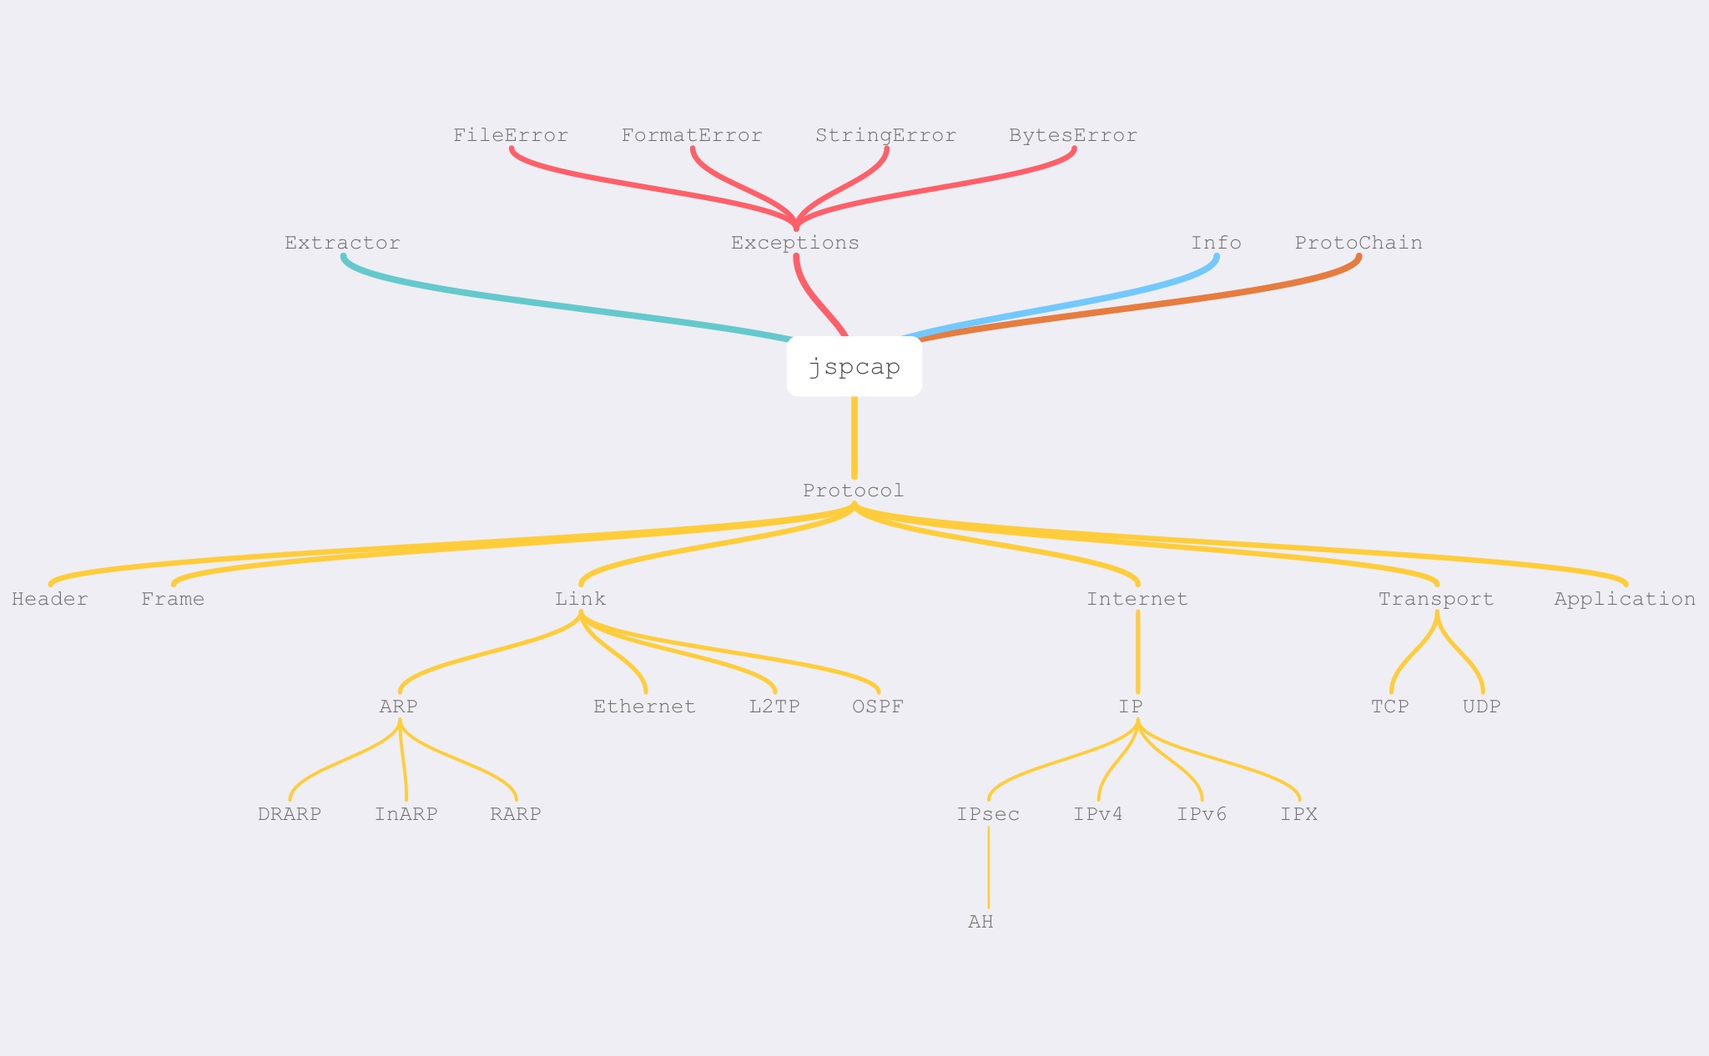
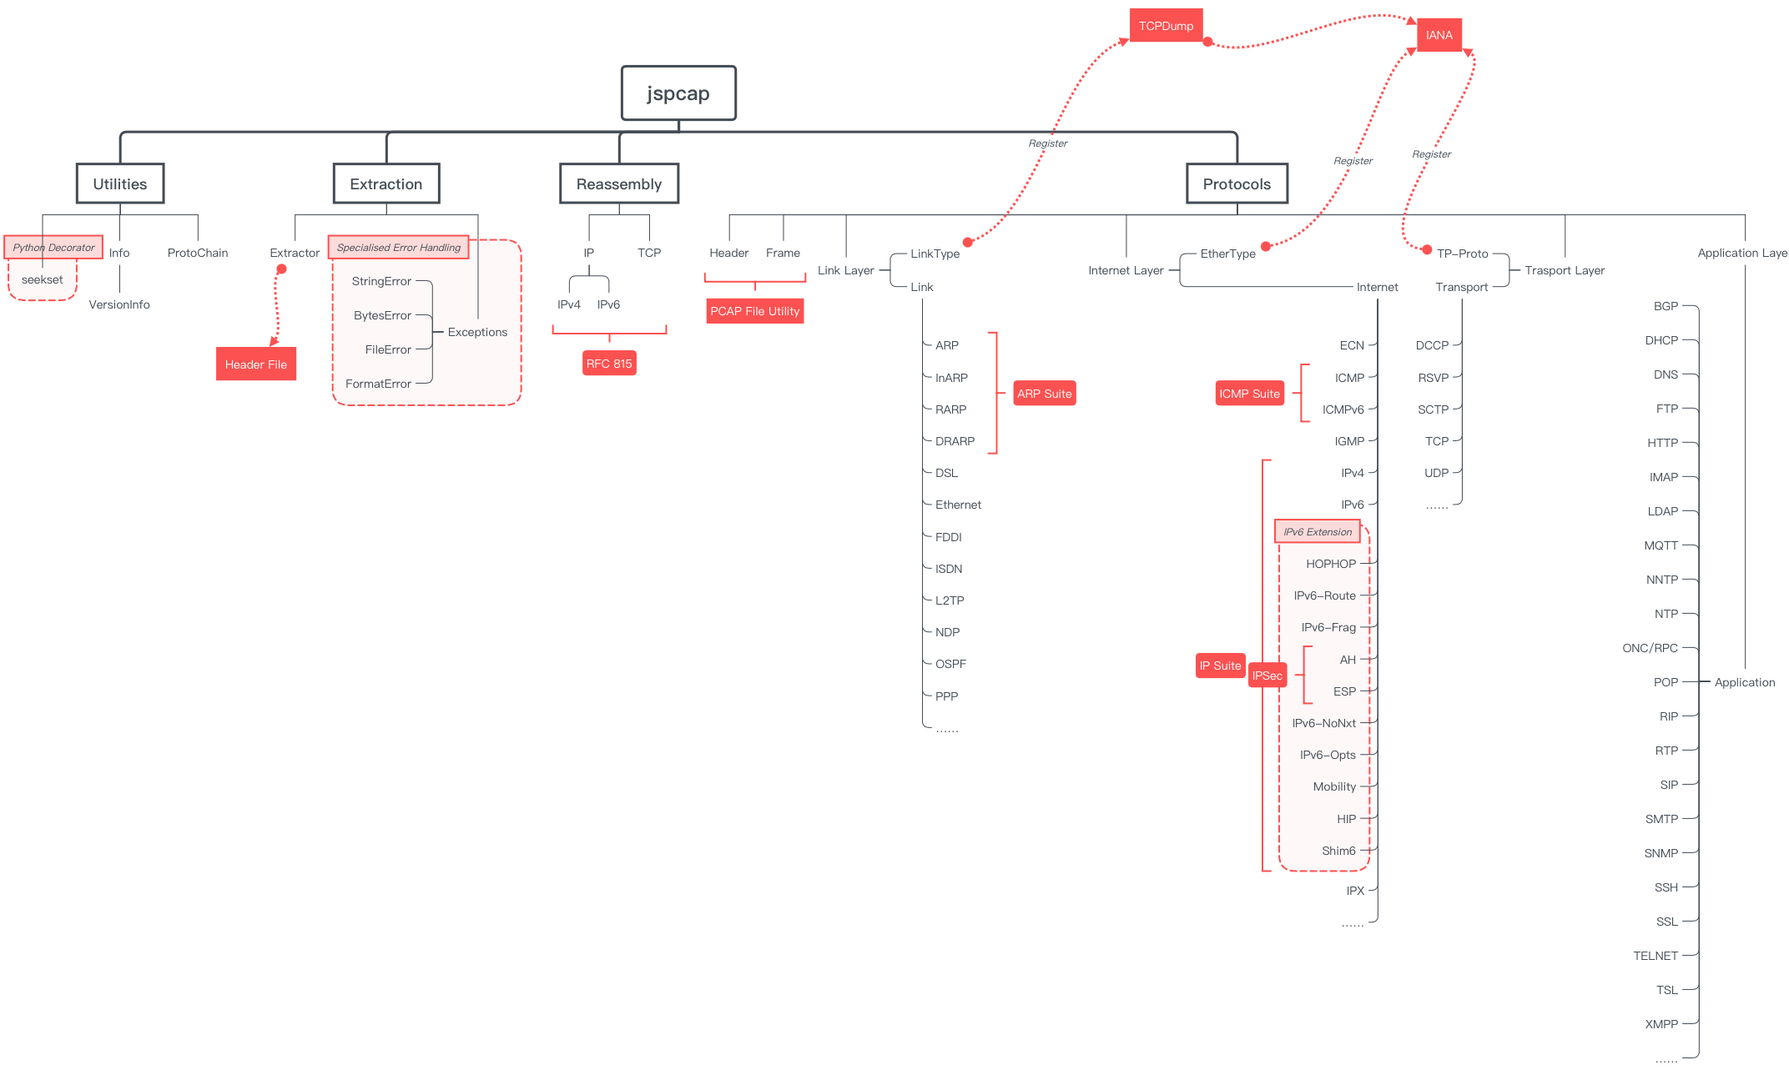
Fxied minor bugs
- add wrapper to `seekset` in `utilities`
 - change `jspcap` mind graph
 - update documentation

diff --git a/TreeViewer/src/jspcap/protocols/utilities.py b/TreeViewer/src/jspcap/protocols/utilities.py
@@ -3,6 +3,7 @@
 
 
 import copy
+import functools
 import numbers
 import os
 
@@ -16,6 +17,7 @@ __all__ = ['seekset', 'Info', 'ProtoChain']
 
 def seekset(func):
     """Rean file from start then set back to original."""
+    @functools.wraps(func)
     def seekcur(self, *args, **kw):
         seek_cur = self._file.tell()
         self._file.seek(os.SEEK_SET)

diff --git a/TreeViewer/Documentation.md b/TreeViewer/Documentation.md
@@ -109,7 +109,7 @@
 
 ##### 安装方法
 
- > &emsp; &emsp; 以下内容属于附加信息，助教小姐姐在检查的时候可以直接略过喔 (￣▽￣)
+ > &emsp; &emsp; 以下内容属于附加信息，助教小哥哥在检查的时候可以直接略过喔 (￣▽￣)
 
  1. 使用 `pip` 安装
 
@@ -392,11 +392,13 @@ optional arguments:
 
  > 此部分功能在 `jspcap/` 中实现。
 
-&emsp; &emsp; 独立开发库 `jspcap` 是本项目的核心之一，为解析 PCAP 文件的依赖库。其并未使用任何第三方库，也并未参照主流解包工具，如 `Scapy`、`dkpt` 和 `pyshark` 等。
+&emsp; &emsp; &emsp; &emsp; 独立开发库 `jspcap` 是本项目的核心之一，为解析 PCAP 文件的依赖库。其并未使用任何第三方库，也并未参照主流解包工具，如 `Scapy`、`dkpt` 和 `pyshark` 等。
 
-&emsp; &emsp; `jspcap` 采取了**流式读取**的策略，即逐段读入文件，减少对内存空间的占用，同时从某种程度上提高了解析效率。在 `jspcap` 库中，各文件主要可视为四个部分：
+&emsp; &emsp; `jspcap` 采取了**流式读取**的策略，即逐段读入文件，减少对内存空间的占用，同时从某种程度上提高了解析效率。在 `jspcap` 库中，各文件主要可视为如下五个部分：
 
- - 头文件，即 `Extractor` —— 综合文件读写与协议解析，协调网络各层级的信息读取等
+ - 解析算法，即 `Extraction` —— 综合文件读写与协议解析，协调网络各层级的信息读取等（这一部分在本项目并未使用）
+
+ - 重组算法，即 `Reassembly` —— 基于 [`RFC 815`](https://tools.ietf.org/html/rfc815) 中所描述的算法，实现对 TCP 应用层报文的重组，以及 IP 包的分片重组
 
  - 根协议，即 `Protocol` —— 抽象协议，包含协议类应有的常用函数和属性，并指定抽象方法等
 
@@ -408,17 +410,282 @@ optional arguments:
 
 ![](doc/jspcap.jpg)
 
-##### 头文件
+##### 解析算法
 
-&emsp; &emsp; 头文件，特指在 `extractor.py` 中实现的 `Extractor` 类。其负责处理文件名称的补全 —— 如输入文件名缺省后缀 `.pcap`，则需添加；如未指定输出类型，则通过输出文件名指明类型，若否则返回错误提示；如未指定输出文件名称，则默认为 `out`（见类方法 `make_name`）—— 以及根据上层协议中指定的协议类型，引入下层协议解析文件，并返回解析结果；最终，记录必要信息，便于 UI 中交互调用，及后续应用层协议拼接操作。
+&emsp; &emsp; 本部分采取了**流式读取**的策略，即逐段读入文件，减少对内存空间的占用，同时从某种程度上提高了解析效率。在实现上，以 PCAP 文件中的 `Frame` 为单位，通过在各层协议间传递 `io.BytesIO` 的形式进行流式读取。
 
-&emsp; &emsp; 此外，头文件中的 `Extractor` 类支持自动解析，或迭代解析。以 `jspcapy` 中的使用为例， `verbose` 模式下为迭代解析，从而可获取每一数据帧的信息；而普通模式则为自动解析，直接完成解析过程，并输出文件。
+&emsp; &emsp; 头文件，特指在 `jspcap/extractor.py` 中实现的 `Extractor` 类。其负责处理文件名称的补全 —— 如输入文件名缺省后缀 `.pcap`，则需添加；如未指定输出类型，则通过输出文件名指明类型，若否则返回 `FormatError` 错误提示；如未指定输出文件名称，则默认为 `out`（见类方法 `make_name`）—— 以及根据 PCAP 文件的 `Global Header` 中指定的链路层协议类型，调取对 `Frame` 的解析操作，并返回解析结果；最终，记录必要信息，便于在如 UI 中交互调用，及后续协议拼接重组操作。
+
+&emsp; &emsp; 此外，`Extractor` 类支持自动解析，或迭代解析两种模式。以基于`jspcap` 实现的命令行工具 [`jspcapy`](https://github.com/JarryShaw/jspcap/tree/master/jspcapy) 的使用为例， `verbose` 模式下为迭代解析，从而可获取每一数据帧的信息；而自动模式则为自动解析，直接完成解析过程，并输出文件。
+
+##### 重组算法
+
+&emsp; &emsp; 本部分参考了 [`RFC 791`](https://tools.ietf.org/html/rfc791) 和 [`RFC 815`](https://tools.ietf.org/html/rfc815) 中描述的两种算法。前者详细描述了 IP 包分片及重组的算法实现，其中使用到了 `RCVBT`，即“已接收比特哈希表”来维护接收顺序；而后者则针对上述 `RCVBT` 进行了优化，提出了一种替代算法。
+
+&emsp; &emsp; 为了便于算法的实现和使用，此处首先在 `jspcap/reassembly/reassembly.py` 中声明了一个名为 `Reassembly` 的抽象基类（Abstract Base Class），其效果等同于根协议。其中指定了一些抽象属性，如 `name`、`count` 和 `datagram` 等；一些抽象函数，如 `reassembly` 和 `submit`，分别用于重组过程和重组完成后提取结果；以及一些工具函数。
+
+&emsp; &emsp; 需要指出的是，同解析算法中的 `Extractor` 一样，此处也提供两种模式，可通过 `run` 方法完成多个数据包的重组；或通过直接调用，即 `__call__` 方法，逐次输入进行重组。
+
+###### IP 分片重组
+
+&emsp; &emsp; 由于操作内存占用较小，故 IP 包的分片重组直接采用了 [`RFC 791`](https://tools.ietf.org/html/rfc791) 的原始算法。其算法伪代码表示如下：
+
+```
+Notation:
+    FO    - Fragment Offset
+    IHL   - Internet Header Length
+    MF    - More Fragments flag
+    TTL   - Time To Live
+    NFB   - Number of Fragment Blocks
+    TL    - Total Length
+    TDL   - Total Data Length
+    BUFID - Buffer Identifier
+    RCVBT - Fragment Received Bit Table
+    TLB   - Timer Lower Bound
+
+Procedure:
+    DO {
+        BUFID <- source|destination|protocol|identification;
+
+        IF (FO = 0 AND MF = 0) {
+            IF (buffer with BUFID is allocated) {
+                flush all reassembly for this BUFID;
+                Submit datagram to next step;
+                DONE.
+            }
+        }
+
+        IF (no buffer with BUFID is allocated) {
+            allocate reassembly resources with BUFID;
+            TIMER <- TLB;
+            TDL <- 0;
+            put data from fragment into data buffer with BUFID
+                [from octet FO*8 to octet (TL-(IHL*4))+FO*8];
+            set RCVBT bits [from FO to FO+((TL-(IHL*4)+7)/8)];
+        }
+
+        IF (MF = 0) {
+            TDL <- TL-(IHL*4)+(FO*8)
+        }
+
+        IF (FO = 0) {
+            put header in header buffer
+        }
+
+        IF (TDL # 0 AND all RCVBT bits [from 0 to (TDL+7)/8] are set) {
+            TL <- TDL+(IHL*4)
+            Submit datagram to next step;
+            free all reassembly resources for this BUFID;
+            DONE.
+        }
+
+        TIMER <- MAX(TIMER,TTL);
+
+    } give up until (next fragment or timer expires);
+
+    timer expires: {
+        flush all reassembly with this BUFID;
+        DONE.
+    }
+```
+
+&emsp; &emsp; 其中，特别对算法中使用的报文数据缓冲区 `buffer` 的数据结构描述如下：
+
+```python
+(dict) buffer --> memory buffer for reassembly
+    |--> (tuple) BUFID : (dict)
+    |     |--> ip.src     |
+    |     |--> ip.dst     |
+    |     |--> ip.id      |
+    |     |--> ip.proto   |
+    |                     |--> 'TDL' : (int) total data length
+    |                     |--> RCVBT : (bytearray) fragment received bit table
+    |                     |               |--> (bytes) b'\x00' not received
+    |                     |               |--> (bytes) b'\x01' received
+    |                     |               |--> (bytes) ...
+    |                     |--> 'index' : (list) list of reassembled packets
+    |                     |               |--> (int) packet range number
+    |                     |--> 'header' : (bytearray) header buffer
+    |                     |--> 'datagram' : (bytearray) data buffer, holes set to b'\x00'
+    |--> (tuple) BUFID ...
+```
+
+####### IPv4
+
+&emsp; &emsp; 针对上述算法，以下将大致解释 IPv4 分片重组的使用方法和符号意义。
+
+```python
+>>> from reassembly import IPv4_Reassembly
+# Initialise instance:
+>>> ipv4_reassembly = IPv4_Reassembly()
+# Call reassembly:
+>>> packet_dict = dict(
+...     bufid = tuple(
+...         ipv4.src,           # source IP address
+...         ipv4.dst,           # destination IP address
+...         ipv4.id,            # identification
+...         ipv4.proto,         # payload protocol type
+...     ),
+...     num = frame.number,     # original packet range number
+...     fo = ipv4.frag_offset,  # fragment offset
+...     ihl = ipv4.hdr_len,     # internet header length
+...     mf = ipv4.flags.mf,     # more fragment flag
+...     tl = ipv4.len,          # total length, header includes
+...     header = ipv4.header,   # raw bytearray type header
+...     payload = ipv4.payload, # raw bytearray type payload
+... )
+>>> ipv4_reassembly(packet_dict)
+# Fetch result:
+>>> result = ipv4_reassembly.datagram
+
+(tuple) datagram
+    |--> (Info) data
+    |     |--> 'NotImplemented' : (bool) True --> implemented
+    |     |--> 'index' : (tuple) packet numbers
+    |     |                 |--> (int) original packet range number
+    |     |--> 'packet' : (bytes/None) reassembled IPv4 packet
+    |--> (Info) data
+    |     |--> 'NotImplemented' : (bool) False --> not implemented
+    |     |--> 'index' : (tuple) packet numbers
+    |     |                 |--> (int) original packet range number
+    |     |--> 'header' : (bytes/None) IPv4 header
+    |     |--> 'payload' : (tuple/None) partially reassembled IPv4 payload
+    |                       |--> (bytes/None) IPv4 payload fragment
+    |--> (Info) data ...
+```
+
+####### IPv6
+
+&emsp; &emsp; 针对上述算法，以下将大致解释 IPv6 分片重组的使用方法和符号意义。
+
+```python
+>>> from reassembly import IPv6_Reassembly
+# Initialise instance:
+>>> ipv6_reassembly = IPv6_Reassembly()
+# Call reassembly:
+>>> packet_dict = dict(
+...     bufid = tuple(
+...         ipv6.src,           # source IP address
+...         ipv6.dst,           # destination IP address
+...         ipv6.label,         # label
+...         ipv6_frag.next,     # next header field in IPv6 Fragment Header
+...     ),
+...     num = frame.number,     # original packet range number
+...     fo = ipv6_frag.offset,  # fragment offset
+...     ihl = ipv6.hdr_len,     # header length, only headers before IPv6-Frag
+...     mf = ipv6_frag.mf,      # more fragment flag
+...     tl = ipv6.len,          # total length, header includes
+...     header = ipv6.header,   # raw bytearray type header before IPv6-Frag
+...     payload = ipv6.payload, # raw bytearray type payload after IPv6-Frag
+... )
+>>> ipv6_reassembly(packet_dict)
+# Fetch result:
+>>> result = ipv6_reassembly.datagram
+
+(tuple) datagram
+    |--> (Info) data
+    |       |--> 'NotImplemented' : (bool) True --> implemented
+    |       |--> 'index' : (tuple) packet numbers
+    |       |                 |--> (int) original packet range number
+    |       |--> 'packet' : (bytes/None) reassembled IPv6 packet
+    |--> (Info) data
+    |       |--> 'NotImplemented' : (bool) False --> not implemented
+    |       |--> 'index' : (tuple) packet numbers
+    |       |                 |--> (int) original packet range number
+    |       |--> 'header' : (bytes/None) IPv6 header
+    |       |--> 'payload' : (tuple/None) partially reassembled IPv6 payload
+    |                         |--> (bytes/None) IPv6 payload fragment
+    |--> (Info) data ...
+```
+
+###### TCP 报文重组
+
+&emsp; &emsp; TCP 报文重组采用了 [`RFC 815`](https://tools.ietf.org/html/rfc815) 中描述的对 `RCVBT` 进行优化后的算法。其重组算法同上述 IP 分片重组，而“已接收比特哈希表”的替代算法过程描述如下：
+
+ 1. 从孔隙表中选取下一空隙。如孔隙表为空，则执行第八步操作。
+ 2. 如果片段首部（`fragment.first`）大于孔隙尾部（`hole.last`），则执行第一步操作。
+ 3. 如果片段尾部（`fragment.last`）小于孔隙首部（`hole.first`），则执行第一步操作。
+ 4. 从孔隙表中删除当前孔隙。
+ 5. 如果片段首部（`fragment.first`）大于孔隙首部（`hole.first`），则创建新孔隙 `new_hole`，令其首部（`new_hole.first`）等于原孔隙首部（`hole.first`），其尾部等于片段首部（`fragment.first`）减一。
+ 6. 如果片段尾部（`fragment.last`）大于孔隙尾部（`hole.last`），且更多片段标签（`fragment.more_fragments`）为真，则创建新孔隙 `new_hole`，令其首部（`new_hole.first`）等于片段尾部（`fragment.last`）加一，其尾部等于原孔隙尾部（`hole.last`）。
+ 7. 执行第一步操作。
+ 8. 如果孔隙表为空，则报文已重组完成。将其传递至高层协议处理机制。否则，返回。
+
+&emsp; &emsp; 其中，特别对算法中使用的报文数据缓冲区 `buffer` 的数据结构描述如下：
+
+```python
+(dict) buffer --> memory buffer for reassembly
+    |--> (tuple) BUFID : (dict)
+    |     |--> ip.src      |
+    |     |--> ip.dst      |
+    |     |--> tcp.secport |
+    |     |--> tcp.dstport |
+    |                      |--> 'hdl' : (list) hole descriptor list
+    |                      |                 |--> (Info) hole --> hole descriptor
+    |                      |                       |--> "first" --> (int) start of hole
+    |                      |                       |--> "last" --> (int) stop of hole
+    |                      |--> (int) ACK : (dict)
+    |                      |                 |--> 'ind' : (list) list of reassembled packets
+    |                      |                 |             |--> (int) packet range number
+    |                      |                 |--> 'isn' : (int) ISN of payload buffer
+    |                      |                 |--> 'len' : (int) length of payload buffer
+    |                      |                 |--> 'raw' : (bytearray) reassembled payload,
+    |                      |                               holes set to b'\x00'
+    |                      |--> (int) ACK ...
+    |                      |--> ...
+    |--> (tuple) BUFID ...
+```
+
+&emsp; &emsp; 针对上述算法，以下将大致解释 TCP 报文重组的使用方法和符号意义。
+
+```python
+>>> from reassembly import TCP_Reassembly
+# Initialise instance:
+>>> tcp_reassembly = TCP_Reassembly()
+# Call reassembly:
+>>> packet_dict = dict(
+...     bufid = tuple(
+...         ip.src,                     # source IP address
+...         ip.dst,                     # destination IP address
+...         tcp.srcport,                # source port
+...         tcp.dstport,                # destination port
+...     ),
+...     num = frame.number,             # original packet range number
+...     ack = tcp.ack,                  # acknowledgement
+...     dsn = tcp.seq,                  # data sequence number
+...     syn = tcp.flags.syn,            # synchronise flag
+...     fin = tcp.flags.fin,            # finish flag
+...     len = tcp.raw_len,              # payload length, header excludes
+...     first = tcp.seq,                # this sequence number
+...     last = tcp.seq + tcp.raw_len,   # next (wanted) sequence number
+...     payload = tcp.raw,              # raw bytearray type payload
+... )
+>>> tcp_reassembly(packet_dict)
+# Fetch result:
+>>> result = tcp_reassembly.datagram
+
+(tuple) datagram
+    |--> (Info) data
+    |     |--> 'NotImplemented' : (bool) True --> implemented
+    |     |--> 'index' : (tuple) packet numbers
+    |     |                 |--> (int) original packet range number
+    |     |--> 'payload' : (bytes/None) reassembled application layer data
+    |--> (Info) data
+    |     |--> 'NotImplemented' : (bool) False --> not implemented
+    |     |--> 'index' : (tuple) packet numbers
+    |     |                 |--> (int) original packet range number
+    |     |--> 'payload' : (tuple/None) partially reassembled payload
+    |                       |--> (bytes/None) payload fragment
+    |--> (Info) data ...
+```
 
 ##### 根协议
 
-&emsp; &emsp; 根协议，特指在 `protocol.py` 中实现的 `Protocol` 类。其为一抽象基类（Abstract Base Class），定义了在协议族中需要用到一些通用方法，如 `unpack`、`binary` 和 `read`等。此外，还指定了一些抽象属性，需要在协议族中重载。
+&emsp; &emsp; 根协议，特指在 `jspcap/protocols/protocol.py` 中实现的 `Protocol` 类。其为一抽象基类（Abstract Base Class），定义了在协议族中需要用到一些通用方法，如 `unpack`、`binary` 和 `read` 等。此外，还指定了一些抽象属性，需要在协议族中重载，如 `name`、`info` 和 `length` 等。
 
-&emsp; &emsp; 需要指出的是，在 `protocol.py` 文件中，还定义了 `Info` 类。这是一个用于将字典参数（`dict`）转化为对象属性的类，便于在协议层中读取和使用。
+&emsp; &emsp; 需要指出的是，在 `jspcap/protocols/utilities.py` 文件中，定义了用于在不干预原有文件读取指针情况下，对文件进行操作的 `seekset` 函数，其通常以装饰器的形式进行使用。同时，定义了 `ProtoChain` 类。其用于保存当前协议的协议链，使得在协议层的传递过程中，得以清晰和便捷地保留并获取上层及下层协议信息。
+
+&emsp; &emsp; 此外，上述文件中，还定义了 `Info` 类，用于将字典参数（`dict`）转化为对象属性的类，便于在协议层中传递并读取和使用。
 
 ```python
 # 字典对象，及其访问
@@ -426,7 +693,7 @@ optional arguments:
 ...     foo = 'foo_arg',
 ...     bar = 'bar_arg',
 ...     baz = 'baz_arg',
-)
+... )
 >>> dict_
 {'foo': 'foo_arg', 'bar': 'bar_arg', 'baz': 'baz_arg'}
 >>> dict_['foo']
@@ -442,15 +709,28 @@ Info(foo='foo_arg', bar='bar_arg', baz='baz_arg')
 
 ##### 协议族
 
-&emsp; &emsp; 协议族，指包含 `Global Header` 和 `Frame Header` 以及计算机网络 TCP/IP 四层架构在内的所有协议。但由于能力和时间所限，目前仅完成了链路层 `Ethernet` 等，网络层 `IPv4` 和 `IPv6` 等，及传输层 `TCP` 和 `UDP` 等的解析。
+&emsp; &emsp; 协议族，指包含 PCAP 文件特有的 `Global Header` 和 `Frame Header` 以及计算机网络 TCP/IP 四层架构在内的所有协议，在 `jspcap/protocols/` 中实现。但由于能力和时间所限，目前仅完成了链路层 Ethernet 等，网络层 IPv4 和 IPv6 等，及传输层 TCP 和 UDP 等的解析。
 
-&emsp; &emsp; 其中，`TCP` 协议头中有 `options` 区域。程序专门设计了简易明了的数据结构加以分析处理，在代码 `transport/tcp.py` 中有详细的注释和说明。
+&emsp; &emsp; 其中，PCAP 文件的 `Global Header` 在 `jspcap/protocols/header.py` 中的 `Header` 类实现，而 `Frame Header` 则在 `jspcap/protocols/frame.py` 中的 `Frame` 类实现。
+
+&emsp; &emsp; 通过根协议 `Protocol`，派生得到各层级的副根协议，即
+
+ - 链路层 —— `jspcap/protocols/link/link.py` 中的 `Link` 类
+ - 网络层 —— `jspcap/protocols/internet/internet.py` 中的 `Internet` 类
+ - 传输层 —— `jspcap/protocols/transport/transport.py` 中的 `Transport` 类
+ - 应用层 —— `jspcap/protocols/application/application.py` 中的 `Application` 类（暂未实现）
+
+除此之外，上述文件中还定义有在 IANA 注册的协议编号表，即 `LINKTYPE`、`ETHERTYPE` 和 `TP_PROTO`。同时，在这些副根协议中，重载并实现了对下一层协议的导入和解析。
+
+&emsp; &emsp; 随后，基于各层级的副根协议，派生了各层级特定协议的具体实现，详细内容在此不做赘述。需要指出的是，其中部分暂未实现或完成的协议，均被置于 `jspcap/protocols/*/NotImplemented/` 中。
+
+&emsp; &emsp; 此外，在 TCP 协议头中有 `options` 区域。程序专门设计了简易明了的数据结构加以分析处理，在代码 `transport/tcp.py` 中有详细的注释和说明。但由于时间仓促，因此暂未实现对 IPv4 中 `options` 区域的解析。
 
 &emsp; &emsp; 由于 `jspcap` 采取了**流式读取**的策略，在协议族中数据帧以 `io.BytesIO` 的形式传递，内存占用极小。但这使其变为 IO 密集型程序，后期或考虑协程（coroutine）进行优化。
 
 ##### 异常类
 
-&emsp; &emsp; 异常类，特指在 `exceptions.py` 中声明的异常。这些异常由 `BaseException` 派生，是为用户定制异常。笔者曾在 [`jsntlib`](https://github.com/JarryShaw/jsntlib) 的开发中探讨过如何定制化异常信息，但此处并无此需求，故略去。
+&emsp; &emsp; 异常类，特指在 `jspcap/exceptions.py` 中声明的异常。这些异常由 `BaseException` 派生，是为用户定制异常。笔者曾在 [`jsntlib`](https://github.com/JarryShaw/jsntlib) 的开发中探讨过如何定制化异常信息，但此处并无此需求，故略去。
 
 #### 格式输出（Dumper）
 
